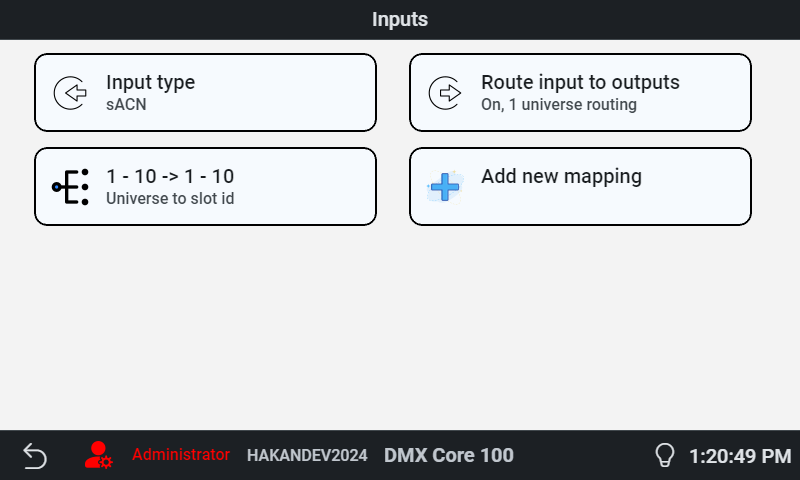
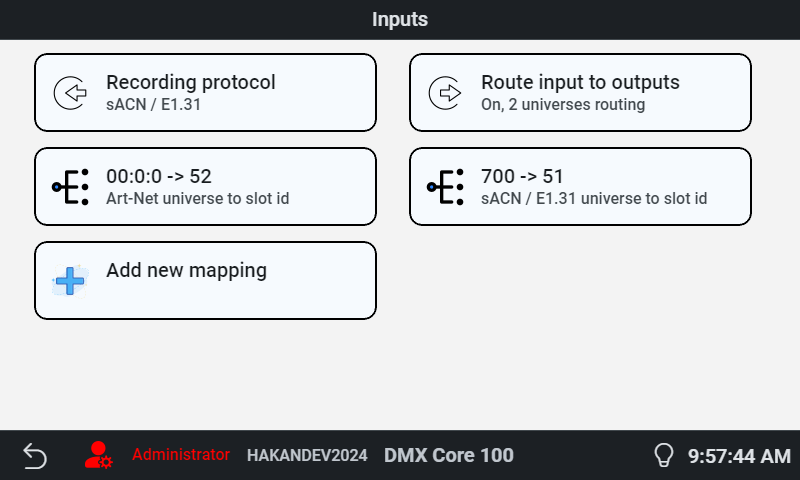
Stream routing: several input protocols at once, and the Recording protocol.
Each mapping row now names its own protocol and every protocol with a row is
listened to, so a console on sACN and one on Art-Net are routed together; the
device-level input protocol becomes the Recording protocol, which picks which of
the mapped protocols a recording captures. Documents the two new rules the Inputs
page enforces - disjoint slot ranges across protocols, and a refusal for a mapping
that closes a loop through a second input row - and the cross-protocol case of the
Routing Conflict rule. Screenshots re-captured with two protocols live.

diff --git a/src/content/docs/dmx-core-100/lighting/stream-routing.md b/src/content/docs/dmx-core-100/lighting/stream-routing.md
@@ -17,11 +17,15 @@ Stream routing is different from the [Passthrough](/dmx-core-100/lighting/passth
 
 Everything is on **Lighting Setup › Inputs** in the Web UI.
 
-![Inputs page with routing on and a console live on universe 1](/assets/web/inputs.png)
+![Inputs page with an sACN console and an Art-Net console routed at the same time](/assets/web/inputs.png)
 
-1. **Input protocol.** The protocol the DMX Core 100 listens on: sACN / E1.31, Art-Net or DMX Serial. One protocol at a time. This is the same setting the recorder uses; changing it here changes it for recording too.
-2. **Input mapping.** Which received universes to accept and which slot id each lands on. An output mapped to that slot id receives the routed data, and the recorder captures it under that slot id. Universes that are not mapped are ignored.
+1. **Input mapping.** The device's input table: which received universes to accept, on which protocol, and which slot id each lands on. Every row names its own protocol — sACN / E1.31, Art-Net or DMX Serial — and **every protocol that has a row is listened to**, so a console on sACN and one on Art-Net are routed at the same time. An output mapped to a row's slot id receives the routed data. Universes that are not mapped are ignored.
+2. **Recording protocol.** A recording still captures one protocol; this picks which of the mapped ones. With a single mapped protocol there is nothing to choose and the page just names it. See [Recording](/dmx-core-100/playback/recording).
 3. **Route input to outputs.** The switch. Configuring input alone never drives the outputs; only this switch does, so a device that has input mappings for recording does not start driving its lights from a console after an upgrade.
+
+Slot ranges have to be **disjoint between protocols**: sACN universe 1 and Art-Net universe 0 cannot both land on slot 1, because the merge and a recording both key on the slot id and the two consoles would be interleaved into one universe. Two universes of the *same* protocol may share a slot; they merge highest-takes-precedence as sACN receivers do.
+
+A DMX Serial row's "universe" is the board's port number: 1 is port A, 2 is port B. Serial rows sit in the same table as network rows, so a console on DMX-512 port A and one on sACN route side by side.
 
 The **Live Sources** table on the same page shows every sender seen on the mapped universes: its name and address, the universe and slot id, the priority it sends at, frames per second, whether it is live or has gone stale, and the outputs it reaches. An output shown struck through is not routed because of a [conflict](#loops-and-conflicts).
 
@@ -29,9 +33,9 @@ Routing is saved, and resumes on its own after a restart.
 
 The DMX Core 100 ignores its own output when it comes back in on an input universe, so a routed universe never feeds itself. For sACN it recognizes itself by its sender id, so lighting software running on the same computer as the desktop software is routed normally. Art-Net carries no sender id, only the address, so Art-Net sent from the same computer as the desktop software is taken for the DMX Core 100's own output and ignored: send sACN from software on the same machine, or run the console on another device.
 
-On the touchscreen, **Main Menu › Settings › Inputs** has the input protocol, the routing switch with a live status line, and the mapping.
+On the touchscreen, **Main Menu › Settings › Inputs** has the mapping (each row showing its protocol), the recording protocol, and the routing switch with a live status line.
 
-![Inputs on the touchscreen](/assets/device/uno-inputs.png)
+![Inputs on the touchscreen, with a protocol on each mapping row](/assets/device/uno-inputs.png)
 
 ### Settings
 
@@ -41,7 +45,7 @@ The finer settings are under **Lighting Setup › Protocol**:
 
 | Setting | Meaning |
 |---|---|
-| **Input Priority** | Merge priority (1–200) for routed input from protocols that carry no priority of their own, Art-Net and DMX Serial. sACN input uses the priority each sender transmits. |
+| **Input Priority** | Merge priority (1–200) for routed input from protocols that carry no priority of their own, Art-Net and DMX Serial. sACN input uses the priority each sender transmits. With several protocols routed at once, each follows its own rule. |
 | **Override Input Priority** | Use Input Priority for all routed input, ignoring what sACN senders transmit. |
 | **Input Loss Timeout (ms)** | How long a routed universe may go without a packet before its source counts as lost. The default 2500 ms is the E1.31 value. |
 | **On Input Loss** | What happens then. **Release**: stop sending the universe, so a cue or preset underneath takes back over and otherwise the [End of Data](/dmx-core-100/playback/layers-and-priority#end-of-data) applies. **Hold last**: keep sending the last received frame. **Blackout and release**: send zeros once, then release. |
@@ -72,8 +76,12 @@ A routed universe must not be sent back onto the same protocol and universe the 
 - Unicast to one of the DMX Core 100's own addresses on an input universe.
 - The DMX-512 port that is the input, or the destination port of the firmware [Passthrough](/dmx-core-100/lighting/passthrough).
 
+With more than one protocol mapped the same rule catches loops that cross protocols: an output sending a slot on Art-Net universe 0 is not routed if Art-Net universe 0 is itself an input row, whichever protocol feeds that slot. The Inputs page marks a mapping row with a warning triangle when an output sends to it, naming the outputs that are left out of routing because of it.
+
 Such an output shows **Routing Conflict** in the Outputs list, with a **?** that explains why. It still works for normal playback; it is only left out of routing.
 
 ![Outputs list with sACN outputs marked Routing Conflict](/assets/web/outputs-routing-conflict.png) Unicasting the same universe to a specific node's IP address, or sending on a different universe, is fine. A universe received on Art-Net universe 0 and sent as Art-Net broadcast on universe 1, for example, routes normally.
+
+A mapping that closes a **loop through a second input row** — slot 1 out on Art-Net universe 0, Art-Net universe 0 in to slot 2, slot 2 out on sACN universe 1, sACN universe 1 in to slot 1 — is refused when you save it, because every output on that path would be left out of routing and nothing could reach the wire. Sending a universe you also listen on straight to one node's IP address is not a loop and stays allowed.
 
 Zone-scoped outputs are not fed by routing; routed data goes to the outputs mapped for all zones.

diff --git a/src/content/docs/dmx-core-100/release-notes.md b/src/content/docs/dmx-core-100/release-notes.md
@@ -5,6 +5,7 @@ description: Release notes and highlights
 
 | Version | Date | Highlights |
 |---------|------|------------|
+| v2026.910.x | 9/10/2026 | [Stream Routing](/dmx-core-100/lighting/stream-routing) routes **several input protocols at once**: every row of the input mapping now names its own protocol, so a console on sACN, one on Art-Net and a DMX-512 port can all be routed at the same time. The device-level input protocol becomes the **Recording protocol** — a recording still captures one protocol while the others keep routing — and the Inputs page refuses slot ranges shared between protocols and mappings that would close a routing loop |
 | v2026.909.x | 9/9/2026 | [Stream Routing](/dmx-core-100/lighting/stream-routing): DMX received on sACN, Art-Net or a DMX-512 port goes straight back out on every output mapped to the same slot id — including Govee, LIFX, WiZ and Shelly plugin outputs — merged by priority with the DMX Core 100's own cues and presets. New **Lighting Setup > Inputs** page (input protocol, mapping, the **Route input to outputs** switch and a live sources table) and **Settings > Inputs** on the touchscreen; outputs that would loop show **Routing Conflict**; a console keeps streaming through Stop, is masked by Blackout and parked by Output Off |
 | v2026.909.x | 9/9/2026 | 2-port DMX-512 board, firmware 501: [End of Data](/dmx-core-100/playback/layers-and-priority#end-of-data) **Stop output** now stops the individual port, Output Off no longer drops a port that is being used as an input, and the board keeps up with sustained 40 fps host streams. The board's [Passthru Function](/dmx-core-100/lighting/passthrough) is now also under Lighting Setup > Protocol in the Web UI, and both UIs only offer it when the 2-port board is fitted |
 | v2026.909.x | 9/9/2026 | Fixed: a USB DMX serial device that dropped off the bus and came back stayed Not Operational and **Re-initialize Ports** hung the device; re-initializing now recovers it in under a second |

diff --git a/src/content/docs/dmx-core-100/configuration/settings.md b/src/content/docs/dmx-core-100/configuration/settings.md
@@ -16,8 +16,9 @@ The Web UI exposes all settings, organized in the sidebar under **Lighting Setup
 
 | Page | Description |
 |------|-------------|
+| **Lighting Setup > Inputs** | The input table (received universe → slot id, one protocol per row), the recording protocol, the [stream routing](/dmx-core-100/lighting/stream-routing) switch and the live sources |
 | **Lighting Setup > Outputs** | DMX output universes and protocols — see [Output Config](/dmx-core-100/configuration/output-config) |
-| **Lighting Setup > Protocol** | Output frequency, [merge mode, priorities, and end-of-data behavior](/dmx-core-100/playback/layers-and-priority), the 2-port board's [passthrough](/dmx-core-100/lighting/passthrough) function, the input protocol and the [stream routing](/dmx-core-100/lighting/stream-routing) switch, priority and input-loss settings |
+| **Lighting Setup > Protocol** | Output frequency, [merge mode, priorities, and end-of-data behavior](/dmx-core-100/playback/layers-and-priority), the 2-port board's [passthrough](/dmx-core-100/lighting/passthrough) function, and the [stream routing](/dmx-core-100/lighting/stream-routing) priority and input-loss settings |
 | **Lighting Setup > Fixtures** | Fixture definitions — see [Fixture Setup](/dmx-core-100/lighting/fixture-setup) |
 | **Lighting Setup > Cue Fade Masks** | Which DMX channels participate in cue fades — see [Cues](/dmx-core-100/playback/cues#fade-mask) |
 | **Control & Integrations** | Triggers, events, [control surfaces](/dmx-core-100/control-surfaces), [control values](/dmx-core-100/integrations/control-values), OSC clients, MQTT, scripts, and [plugins](/dmx-core-100/integrations/plugins) |

diff --git a/src/content/docs/dmx-core-100/playback/recording.md b/src/content/docs/dmx-core-100/playback/recording.md
@@ -37,7 +37,7 @@ In the **Web UI**, go to **Utilities > Record**. The Web UI recording interface 
 
 ![Recording page with the input mapping](/assets/web/record.png)
 
-- **Input** — The input protocol and the universe-to-slot mapping are device settings shared with [stream routing](/dmx-core-100/lighting/stream-routing); the Record page shows them and links to **Lighting Setup > Inputs** to change them
+- **Input** — The universe-to-slot mapping is a device setting shared with [stream routing](/dmx-core-100/lighting/stream-routing), and each row names its own protocol. A recording captures **one** protocol: the **Recording protocol** on the Inputs page, which can only be one of the protocols that have mapping rows. The other mapped protocols keep routing while the recording runs. The Record page shows both and links to **Lighting Setup > Inputs** to change them
 - **Trigger** — Start recording manually, or automatically from an external signal (DMX threshold, HTTP, TCP, UDP, or OSC)
 - **Real-time monitoring** — View incoming DMX data as it arrives, with the recorded size and remaining recording space shown while recording
 - **Stay on the page after save** — after Save Dynamic Cue, Play / Pause and Restart confirm the take. Disable Recorder when you are finished; the recorder no longer disables itself after a save
